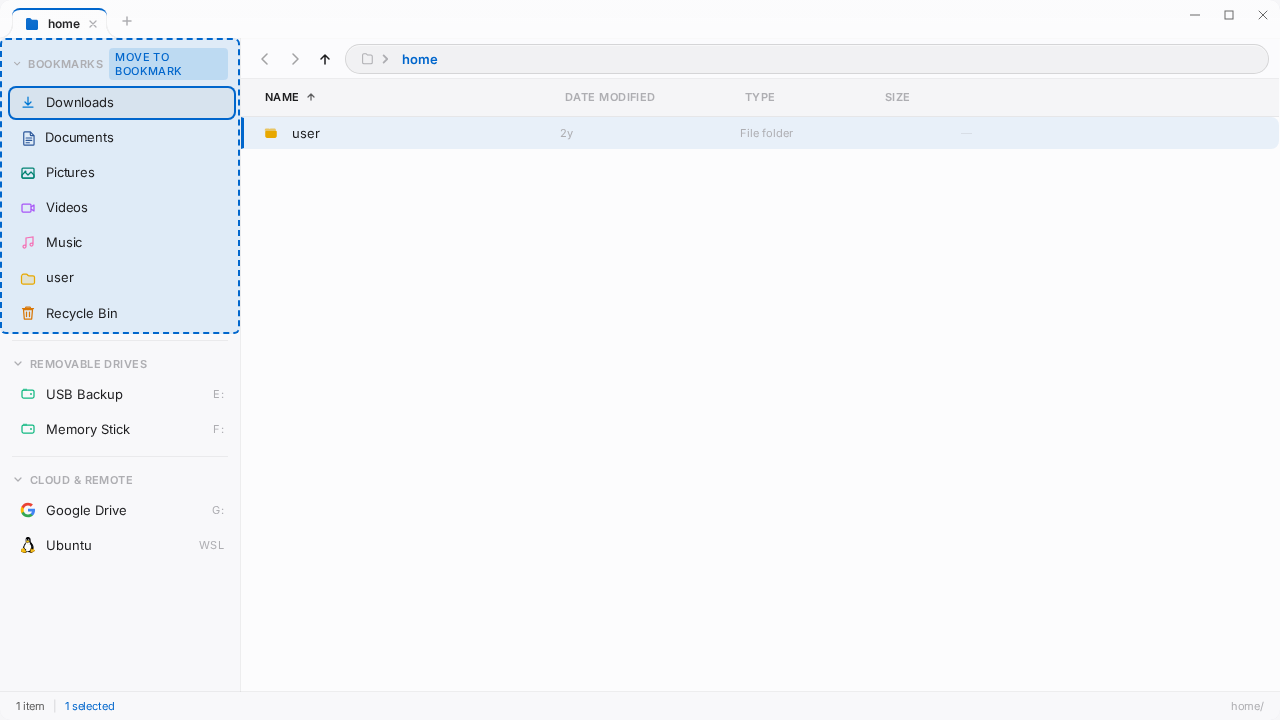
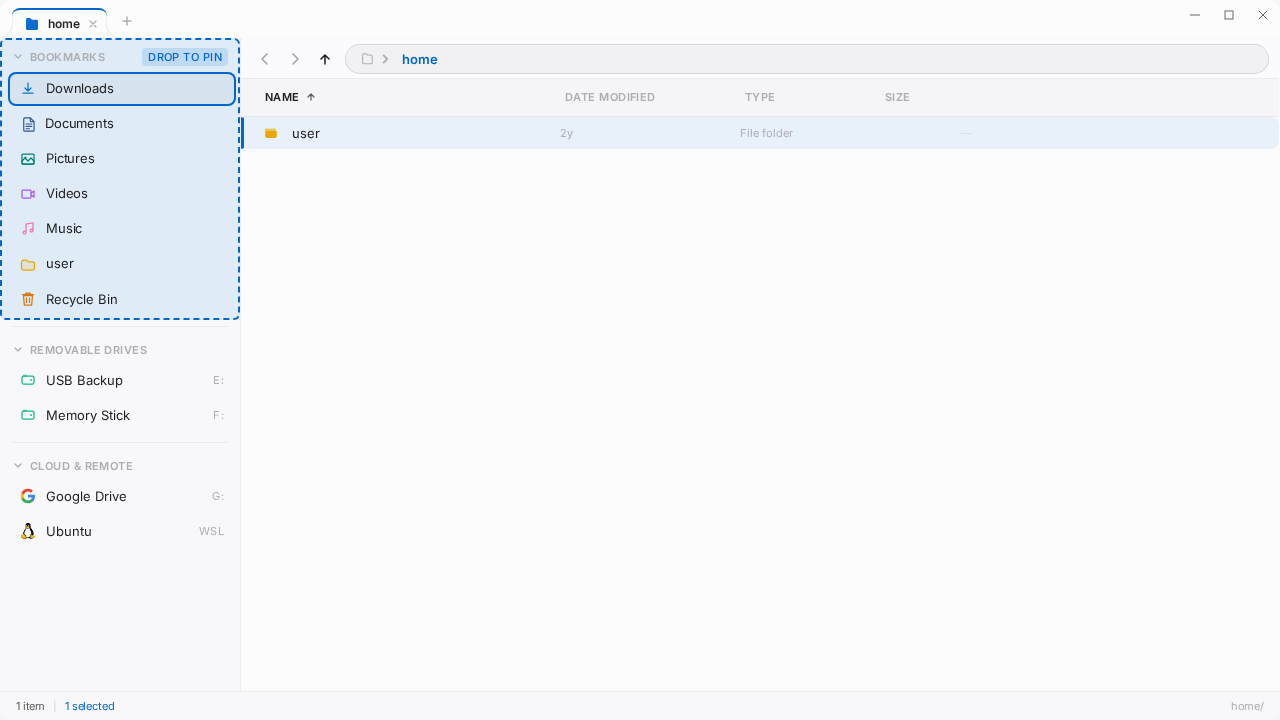
docs: capture folder bookmark feedback

Changed region(s): [[0.0, 0.0611, 0.1875, 0.6111], [0.0, 0.6417, 0.125, 0.7639], [0.1562, 0.7333, 0.1875, 0.7639]]

diff --git a/CLAUDE.md b/CLAUDE.md
@@ -59,6 +59,7 @@ Rules that bite:
 - Fixed overlays under root CSS zoom are engine-specific: `fixedFromClient` and `fixedFromRect` divide once only on Chromium; WKWebView uses two divisions, while WebKitGTK's CSS-space rect offsets its second scale. Keep the live Chromium check wired through the context-menu conversion (#493).
 - Zoomed image previews update their `transform` for every pointer move. Keep the compositor hint scoped to `.preview-image.zoomed`, so active panning stays smooth without retaining layers for every ordinary image preview (#635).
 - Bookmarks have two drop surfaces: a specific `.bookmark-drop-target[data-path]` preserves bookmark identity so files transfer into it but folders pin, while empty `.quick-access` space remains a folder-pinning target. Resolve the row before its containing section so Linux native and macOS/Windows pointer drags agree (#675).
+- Bookmark feedback must state the action for the source kind: directory drags always say `Drop to pin`, including a targeted bookmark row; only files on a targeted row say `Move to bookmark` (#675).
 - Repository-folder Git badges are rendered directly by `FileIcon.svelte` in every directory view. Keep their compact corner geometry and their `--icon-git-badge` / `--icon-git-badge-glyph` theme overrides together when polishing the SVG (#601).
 - Git graph lineage is first-parent topology plus the branch paths from
   `assignLayout`, never a lane number or color: paths can curve between lanes

diff --git a/docs/lessons/675-bookmark-file-drop-destination.md b/docs/lessons/675-bookmark-file-drop-destination.md
@@ -5,3 +5,7 @@ section and retain their bookmark identity. Files transfer into the row's
 folder, but folders pin; the section's empty space is also a folder-pinning
 surface. This ordering is shared by Linux native drop hit-testing and the
 pointer-drag path used by the other supported engines.
+
+The Bookmarks hint must derive from the source kind as well as the target:
+directories always advertise pinning, while only files over a specific bookmark
+advertise moving.
